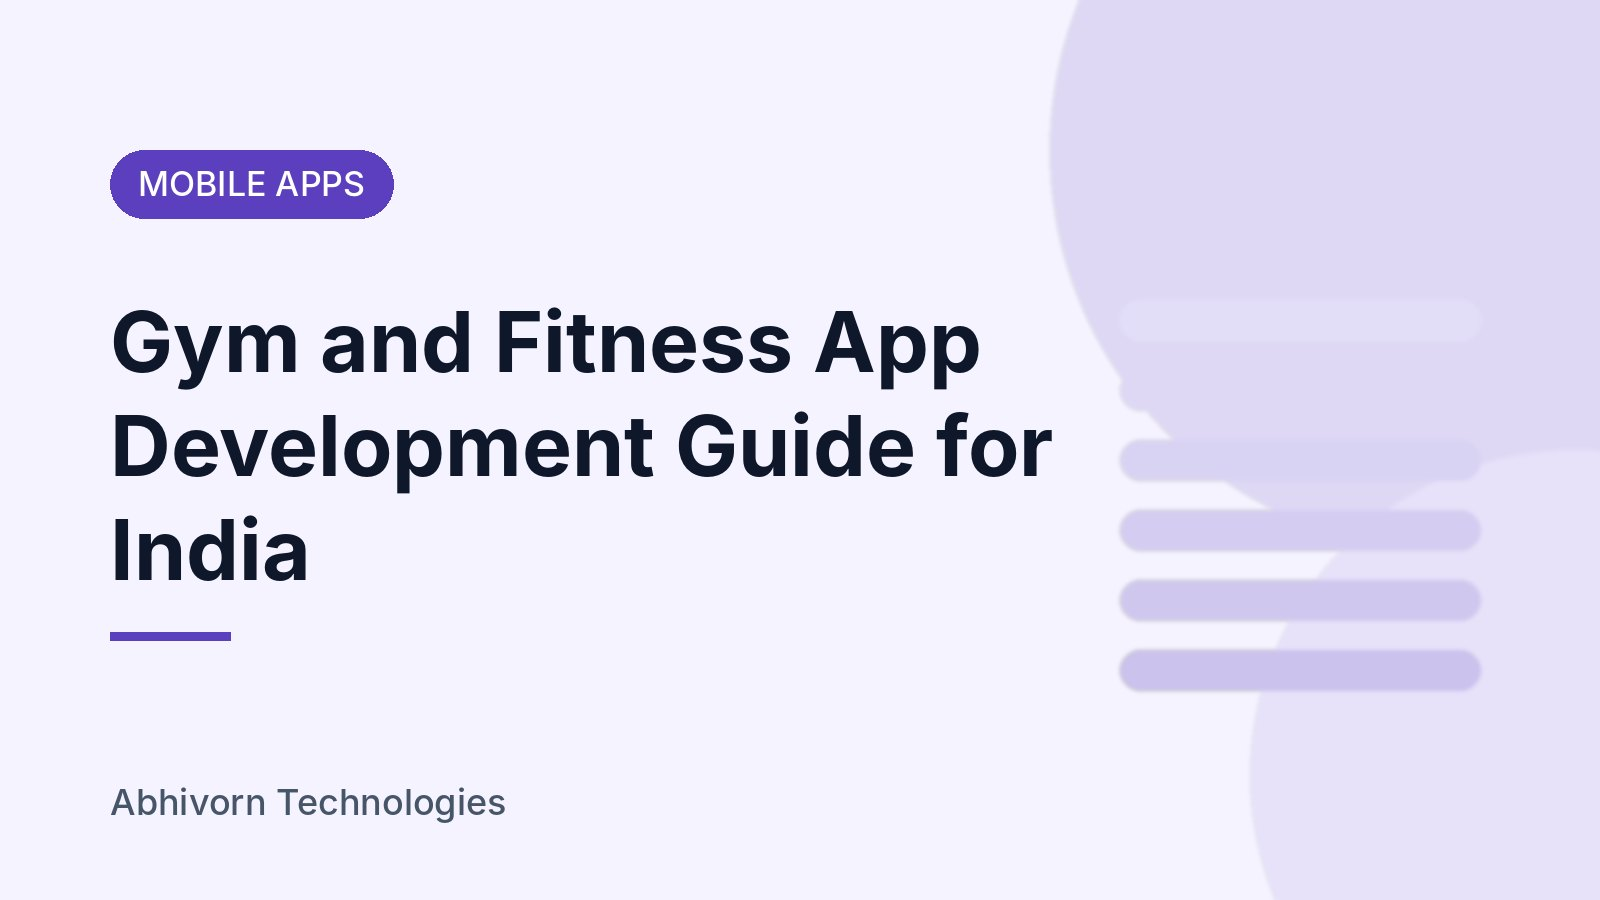
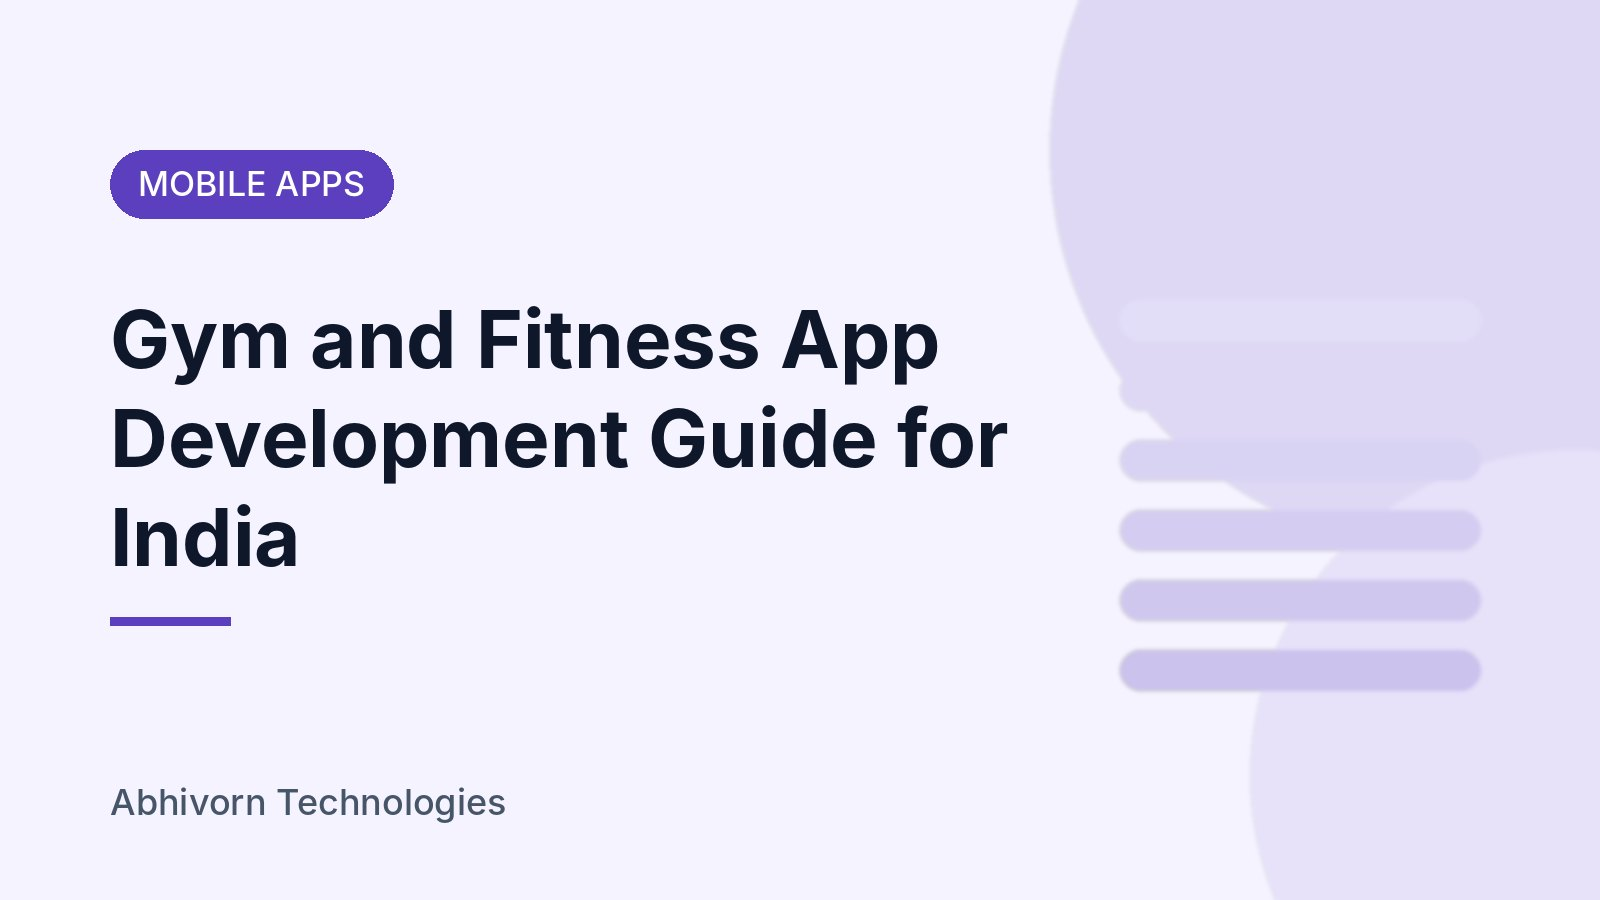
Blog: local cover images for every post
All 46 posts now use generated light-theme covers served from the site
instead of hotlinked Unsplash photos, so no post shows a blank image.
Long titles get a smaller font so they fit.

Claude-Session: https://claude.ai/code/session_013c4AtGcZGQpdkY8iNqN88b

Changed region(s): [[0.0625, 0.3422, 0.6562, 0.56], [0.0625, 0.56, 0.1875, 0.6533], [0.0625, 0.6844, 0.1562, 0.7156]]

diff --git a/src/lib/blog.ts b/src/lib/blog.ts
@@ -672,7 +672,7 @@ export const blogPosts: BlogPost[] = [
     "readTime": "6 min read",
     "category": "Mobile Apps",
     "service": "mobile-app-development",
-    "image": "https://images.unsplash.com/photo-1532968961962-8a0cb3a2d4f5?w=800&h=450&fit=crop",
+    "image": "/blog-covers/astrology-app-development-india-guide.jpg",
     "keywords": [
       "astrology app development India",
       "astrology app development company Hyderabad",
@@ -737,7 +737,7 @@ export const blogPosts: BlogPost[] = [
     "readTime": "5 min read",
     "category": "Web Development",
     "service": "web-development",
-    "image": "https://images.unsplash.com/photo-1558494949-ef010cbdcc31?w=800&h=450&fit=crop",
+    "image": "/blog-covers/domain-dns-setup-business-website-guide.jpg",
     "keywords": [
       "domain and DNS setup for website",
       "connect domain to website India",
@@ -797,7 +797,7 @@ export const blogPosts: BlogPost[] = [
     "readTime": "6 min read",
     "category": "Custom Software",
     "service": "custom-software-development",
-    "image": "https://images.unsplash.com/photo-1586281380349-632531db7ed4?w=800&h=450&fit=crop",
+    "image": "/blog-covers/job-portal-website-app-development-india.jpg",
     "keywords": [
       "job portal development India",
       "job portal app development Hyderabad",
@@ -860,7 +860,7 @@ export const blogPosts: BlogPost[] = [
     "readTime": "6 min read",
     "category": "Mobile Apps",
     "service": "mobile-app-development",
-    "image": "https://images.unsplash.com/photo-1526367790999-0150786686a2?w=800&h=450&fit=crop",
+    "image": "/blog-covers/hyperlocal-delivery-app-development-india.jpg",
     "keywords": [
       "hyperlocal delivery app development India",
       "grocery delivery app development Hyderabad",
@@ -920,7 +920,7 @@ export const blogPosts: BlogPost[] = [
     "readTime": "6 min read",
     "category": "Custom Software",
     "service": "custom-software-development",
-    "image": "https://images.unsplash.com/photo-1501504905252-473c47e087f8?w=800&h=450&fit=crop",
+    "image": "/blog-covers/elearning-platform-app-development-india.jpg",
     "keywords": [
       "e-learning app development India",
       "online learning platform development Hyderabad",
@@ -986,7 +986,7 @@ export const blogPosts: BlogPost[] = [
     "date": "2026-11-05",
     "readTime": "6 min read",
     "category": "Digital Marketing",
-    "image": "https://images.unsplash.com/photo-1611162617213-7d7a39e9b1d7?w=800&h=450&fit=crop",
+    "image": "/blog-covers/facebook-instagram-lead-ads-local-business.jpg",
     "keywords": [
       "Facebook lead ads for local business",
       "Instagram lead generation Hyderabad",
@@ -1046,7 +1046,7 @@ export const blogPosts: BlogPost[] = [
     "readTime": "6 min read",
     "category": "Web Development",
     "service": "web-development",
-    "image": "https://images.unsplash.com/photo-1517248135467-4c7edcad34c4?w=800&h=450&fit=crop",
+    "image": "/blog-covers/restaurant-online-ordering-website-app-india.jpg",
     "keywords": [
       "restaurant online ordering website India",
       "food ordering app development Hyderabad",
@@ -1111,7 +1111,7 @@ export const blogPosts: BlogPost[] = [
     "readTime": "6 min read",
     "category": "Web Development",
     "service": "web-development",
-    "image": "https://images.unsplash.com/photo-1504868584819-f8e8b4b6d7e3?w=800&h=450&fit=crop",
+    "image": "/blog-covers/website-speed-core-web-vitals-guide.jpg",
     "keywords": [
       "website speed optimization India",
       "Core Web Vitals explained",
@@ -1179,7 +1179,7 @@ export const blogPosts: BlogPost[] = [
     "readTime": "6 min read",
     "category": "Custom Software",
     "service": "custom-software-development",
-    "image": "https://images.unsplash.com/photo-1586528116311-ad8dd3c8310d?w=800&h=450&fit=crop",
+    "image": "/blog-covers/inventory-management-software-small-business-india.jpg",
     "keywords": [
       "inventory management software India",
       "stock management software small business",
@@ -1244,7 +1244,7 @@ export const blogPosts: BlogPost[] = [
     "readTime": "6 min read",
     "category": "Web Development",
     "service": "web-development",
-    "image": "https://images.unsplash.com/photo-1556742049-0cfed4f6a45d?w=800&h=450&fit=crop",
+    "image": "/blog-covers/own-ecommerce-website-vs-marketplace-india.jpg",
     "keywords": [
       "own ecommerce website vs marketplace",
       "sell online India",
@@ -1309,7 +1309,7 @@ export const blogPosts: BlogPost[] = [
     "readTime": "6 min read",
     "category": "Digital Marketing",
     "service": "web-development",
-    "image": "https://images.unsplash.com/photo-1556740738-b6a63e27c4df?w=800&h=450&fit=crop",
+    "image": "/blog-covers/google-business-profile-guide-hyderabad.jpg",
     "keywords": [
       "Google Business Profile guide",
       "Google My Business Hyderabad",
@@ -1374,7 +1374,7 @@ export const blogPosts: BlogPost[] = [
     "readTime": "6 min read",
     "category": "HRMS",
     "service": "hrms-software-development",
-    "image": "https://images.unsplash.com/photo-1521737604893-d14cc237f11d?w=800&h=450&fit=crop",
+    "image": "/blog-covers/employee-onboarding-software-india-guide.jpg",
     "keywords": [
       "employee onboarding software",
       "onboarding software India",
@@ -1439,7 +1439,7 @@ export const blogPosts: BlogPost[] = [
     "readTime": "6 min read",
     "category": "Mobile Apps",
     "service": "mobile-app-development",
-    "image": "https://images.unsplash.com/photo-1551650975-87deedd944c3?w=800&h=450&fit=crop",
+    "image": "/blog-covers/app-launch-checklist-play-store-app-store-india.jpg",
     "keywords": [
       "app launch checklist",
       "publish app on Play Store India",
@@ -1504,7 +1504,7 @@ export const blogPosts: BlogPost[] = [
     "readTime": "6 min read",
     "category": "AI",
     "service": "ai-development",
-    "image": "https://images.unsplash.com/photo-1450101499163-c8848c66ca85?w=800&h=450&fit=crop",
+    "image": "/blog-covers/ai-document-processing-business-india.jpg",
     "keywords": [
       "AI document processing",
       "invoice data extraction India",
@@ -1570,7 +1570,7 @@ export const blogPosts: BlogPost[] = [
     "readTime": "6 min read",
     "category": "HRMS",
     "service": "hrms-software-development",
-    "image": "https://images.unsplash.com/photo-1554224155-6726b3ff858f?w=800&h=450&fit=crop",
+    "image": "/blog-covers/payroll-attendance-software-small-business-india.jpg",
     "keywords": [
       "payroll software India",
       "attendance management system Hyderabad",
@@ -1636,7 +1636,7 @@ export const blogPosts: BlogPost[] = [
     "readTime": "6 min read",
     "category": "Custom Software",
     "service": "custom-software-development",
-    "image": "https://images.unsplash.com/photo-1552664730-d307ca884978?w=800&h=450&fit=crop",
+    "image": "/blog-covers/custom-crm-small-business-india-guide.jpg",
     "keywords": [
       "custom CRM development Hyderabad",
       "CRM for small business India",
@@ -1702,7 +1702,7 @@ export const blogPosts: BlogPost[] = [
     "readTime": "6 min read",
     "category": "Web Development",
     "service": "web-development",
-    "image": "https://images.unsplash.com/photo-1581291518857-4e27b48ff24e?w=800&h=450&fit=crop",
+    "image": "/blog-covers/website-redesign-signs-business-india.jpg",
     "keywords": [
       "website redesign Hyderabad",
       "website redesign services India",
@@ -1770,7 +1770,7 @@ export const blogPosts: BlogPost[] = [
     "readTime": "6 min read",
     "category": "Healthcare",
     "service": "healthcare-software-development",
-    "image": "https://images.unsplash.com/photo-1519494026892-80bbd2d6fd0d?w=800&h=450&fit=crop",
+    "image": "/blog-covers/clinic-appointment-booking-software-india.jpg",
     "keywords": [
       "clinic appointment booking software India",
       "doctor appointment booking system Hyderabad",
@@ -1838,7 +1838,7 @@ export const blogPosts: BlogPost[] = [
     "readTime": "6 min read",
     "category": "Web Development",
     "service": "web-development",
-    "image": "https://images.unsplash.com/photo-1498050108023-c5249f4df085?w=800&h=450&fit=crop",
+    "image": "/blog-covers/website-maintenance-guide-small-business.jpg",
     "keywords": [
       "website maintenance services Hyderabad",
       "website maintenance checklist",
@@ -1906,7 +1906,7 @@ export const blogPosts: BlogPost[] = [
     "readTime": "6 min read",
     "category": "AI",
     "service": "ai-development",
-    "image": "https://images.unsplash.com/photo-1485827404703-89b55fcc595e?w=800&h=450&fit=crop",
+    "image": "/blog-covers/ai-chatbot-for-business-website-guide.jpg",
     "keywords": [
       "AI chatbot for website",
       "AI chatbot development India",
@@ -1981,7 +1981,7 @@ export const blogPosts: BlogPost[] = [
     "readTime": "6 min read",
     "category": "Healthcare",
     "service": "healthcare-software-development",
-    "image": "https://images.unsplash.com/photo-1579154204601-01588f351e67?w=800&h=450&fit=crop",
+    "image": "/blog-covers/lab-pharmacy-software-guide-india.jpg",
     "keywords": [
       "lab management software India",
       "pharmacy billing software",
@@ -2055,7 +2055,7 @@ export const blogPosts: BlogPost[] = [
     "readTime": "6 min read",
     "category": "Mobile Apps",
     "service": "mobile-app-development",
-    "image": "https://images.unsplash.com/photo-1512941937669-90a1b58e7e9c?w=800&h=450&fit=crop",
+    "image": "/blog-covers/mobile-app-cost-factors-india.jpg",
     "keywords": [
       "mobile app development cost India",
       "app development cost Hyderabad",
@@ -2124,7 +2124,7 @@ export const blogPosts: BlogPost[] = [
     "readTime": "7 min read",
     "category": "Web Development",
     "service": "web-development",
-    "image": "https://images.unsplash.com/photo-1560518883-ce09059eeffa?w=800&h=450&fit=crop",
+    "image": "/blog-covers/real-estate-property-listing-website-guide.jpg",
     "keywords": [
       "real estate website development",
       "property listing website",
@@ -2194,7 +2194,7 @@ export const blogPosts: BlogPost[] = [
     "readTime": "8 min read",
     "category": "Custom Software",
     "service": "custom-software-development",
-    "image": "https://images.unsplash.com/photo-1611974789855-9c2a0a7236a3?w=800&h=450&fit=crop",
+    "image": "/blog-covers/trading-software-development-india-guide.jpg",
     "keywords": [
       "trading software development India",
       "stock market software development",
@@ -2261,7 +2261,7 @@ export const blogPosts: BlogPost[] = [
     "readTime": "7 min read",
     "category": "Web Development",
     "service": "web-development",
-    "image": "https://images.unsplash.com/photo-1563013544-824ae1b704d3?w=800&h=450&fit=crop",
+    "image": "/blog-covers/payment-gateway-integration-website-india.jpg",
     "keywords": [
       "payment gateway integration India",
       "add payment gateway to website",
@@ -2338,7 +2338,7 @@ export const blogPosts: BlogPost[] = [
     "readTime": "8 min read",
     "category": "Web Development",
     "service": "web-development",
-    "image": "https://images.unsplash.com/photo-1472851294608-062f824d29cc?w=800&h=450&fit=crop",
+    "image": "/blog-covers/ecommerce-website-features-small-business.jpg",
     "keywords": [
       "e-commerce website for small business",
       "online store features",
@@ -2419,7 +2419,7 @@ export const blogPosts: BlogPost[] = [
     "date": "2026-10-24",
     "readTime": "7 min read",
     "category": "Digital Marketing",
-    "image": "https://images.unsplash.com/photo-1533750349088-cd871a92f312?w=800&h=450&fit=crop",
+    "image": "/blog-covers/what-is-performance-marketing.jpg",
     "keywords": [
       "what is performance marketing",
       "performance marketing for small business",
@@ -2501,7 +2501,7 @@ export const blogPosts: BlogPost[] = [
     "readTime": "6 min read",
     "category": "Digital Marketing",
     "service": "web-development",
-    "image": "https://images.unsplash.com/photo-1432888622747-4eb9a8efeb07?w=800&h=450&fit=crop",
+    "image": "/blog-covers/seo-geo-aeo-get-found-google-ai-search.jpg",
     "keywords": [
       "SEO GEO AEO",
       "generative engine optimization",
@@ -2570,7 +2570,7 @@ export const blogPosts: BlogPost[] = [
     "readTime": "7 min read",
     "category": "Mobile Apps",
     "service": "mobile-app-development",
-    "image": "https://images.unsplash.com/photo-1512941937669-90a1b58e7e9c?w=800&h=450&fit=crop",
+    "image": "/blog-covers/mobile-app-development-process-hyderabad.jpg",
     "keywords": [
       "mobile app development Hyderabad",
       "app development company Hyderabad",
@@ -2627,7 +2627,7 @@ export const blogPosts: BlogPost[] = [
     "readTime": "5 min read",
     "category": "Web Development",
     "service": "web-development",
-    "image": "https://images.unsplash.com/photo-1499951360447-b19be8fe80f5?w=800&h=450&fit=crop",
+    "image": "/blog-covers/website-or-mobile-app-first.jpg",
     "keywords": [
       "website or mobile app",
       "website vs app for business",
@@ -2683,7 +2683,7 @@ export const blogPosts: BlogPost[] = [
     "readTime": "6 min read",
     "category": "Web Development",
     "service": "web-development",
-    "image": "https://images.unsplash.com/photo-1467232004584-a241de8bcf5d?w=800&h=450&fit=crop",
+    "image": "/blog-covers/choose-website-development-company-hyderabad.jpg",
     "keywords": [
       "website development company Hyderabad",
       "web design company Hyderabad",
@@ -2747,7 +2747,7 @@ export const blogPosts: BlogPost[] = [
     "readTime": "7 min read",
     "category": "Healthcare",
     "service": "healthcare-software-development",
-    "image": "https://images.unsplash.com/photo-1576091160550-2173dba999ef?w=800&h=450&fit=crop",
+    "image": "/blog-covers/healthcare-app-development-india-guide.jpg",
     "keywords": [
       "healthcare app development India",
       "healthcare software Hyderabad",
@@ -2809,7 +2809,7 @@ export const blogPosts: BlogPost[] = [
     "readTime": "6 min read",
     "category": "HRMS",
     "service": "hrms-software-development",
-    "image": "https://images.unsplash.com/photo-1551288049-bebda4e38f71?w=800&h=450&fit=crop",
+    "image": "/blog-covers/startups-hrms-2026.jpg",
     "content": [
       "Managing a growing team is exciting, but running HR on spreadsheets quickly becomes chaotic. Attendance sheets, salary calculations, leave approvals and hiring all eat into time that should go into the business. That is why more Indian startups and established companies are moving to HRMS software built for the way Indian teams actually work.",
       "## What is HRMS software?",
@@ -2846,7 +2846,7 @@ export const blogPosts: BlogPost[] = [
     "readTime": "6 min read",
     "category": "Custom Software",
     "service": "custom-software-development",
-    "image": "https://images.unsplash.com/photo-1460925895917-afdab827c52f?w=800&h=450&fit=crop",
+    "image": "/blog-covers/custom-software-benefits-2026.jpg",
     "content": [
       "In 2026, businesses across India are increasingly turning to custom software solutions to gain competitive advantage. While off-the-shelf software serves basic needs, custom development unlocks unique capabilities tailored to specific business requirements.",
       "## What is Custom Software Development?",
@@ -2879,7 +2879,7 @@ export const blogPosts: BlogPost[] = [
     "readTime": "7 min read",
     "category": "Healthcare",
     "service": "ai-development",
-    "image": "https://images.unsplash.com/photo-1581056771107-24ca5f033842?w=800&h=450&fit=crop",
+    "image": "/blog-covers/ai-healthcare-diagnostics.jpg",
     "content": [
       "Artificial Intelligence is transforming healthcare across India, from urban hospitals to rural clinics. Medical diagnostics, once dependent solely on human expertise, now benefits from AI-powered tools that improve accuracy and speed.",
       "## What is AI in Healthcare?",
@@ -2905,7 +2905,7 @@ export const blogPosts: BlogPost[] = [
     "readTime": "6 min read",
     "category": "AI",
     "service": "ai-development",
-    "image": "https://images.unsplash.com/photo-1677442136019-21780ecad995?w=800&h=450&fit=crop",
+    "image": "/blog-covers/ai-solutions-business-growth.jpg",
     "content": [
       "Artificial Intelligence is no longer just a buzzword. In 2026, Indian businesses are leveraging AI to dramatically reduce costs and accelerate growth across every department.",
       "## How AI Reduces Costs",

diff --git a/scripts/blog-cover.py b/scripts/blog-cover.py
@@ -19,8 +19,11 @@ for s in slugs:
     ov=ov.filter(ImageFilter.GaussianBlur(2)); im.paste(ov,(0,0),ov); d=ImageDraw.Draw(im)
     f=ImageFont.truetype(FM,34); tw=d.textlength(cat.upper(),font=f)
     d.rounded_rectangle((110,150,110+tw+56,150+68),radius=34,fill=ac); d.text((138,163),cat.upper(),font=f,fill=(255,255,255))
-    ft=ImageFont.truetype(FB,84); lines=textwrap.wrap(title,22); y=290
-    for ln in lines[:4]: d.text((110,y),ln,font=ft,fill=(15,23,42)); y+=104
+    size,wrap,lh=84,22,104
+    if len(textwrap.wrap(title,22))>3: size,wrap,lh=68,27,84
+    ft=ImageFont.truetype(FB,size); lines=textwrap.wrap(title,wrap); y=290
+    while max(d.textlength(l,font=ft) for l in lines)>940: size-=4; lh=int(size*1.24); ft=ImageFont.truetype(FB,size)
+    for ln in lines[:5]: d.text((110,y),ln,font=ft,fill=(15,23,42)); y+=lh
     d.rectangle((110,y+30,230,y+38),fill=ac)
     d.text((110,H-120),"Abhivorn Technologies",font=ImageFont.truetype(FM,36),fill=(71,85,105))
     im.save(f"public/blog-covers/{s}.jpg",quality=86,optimize=True,progressive=True)
